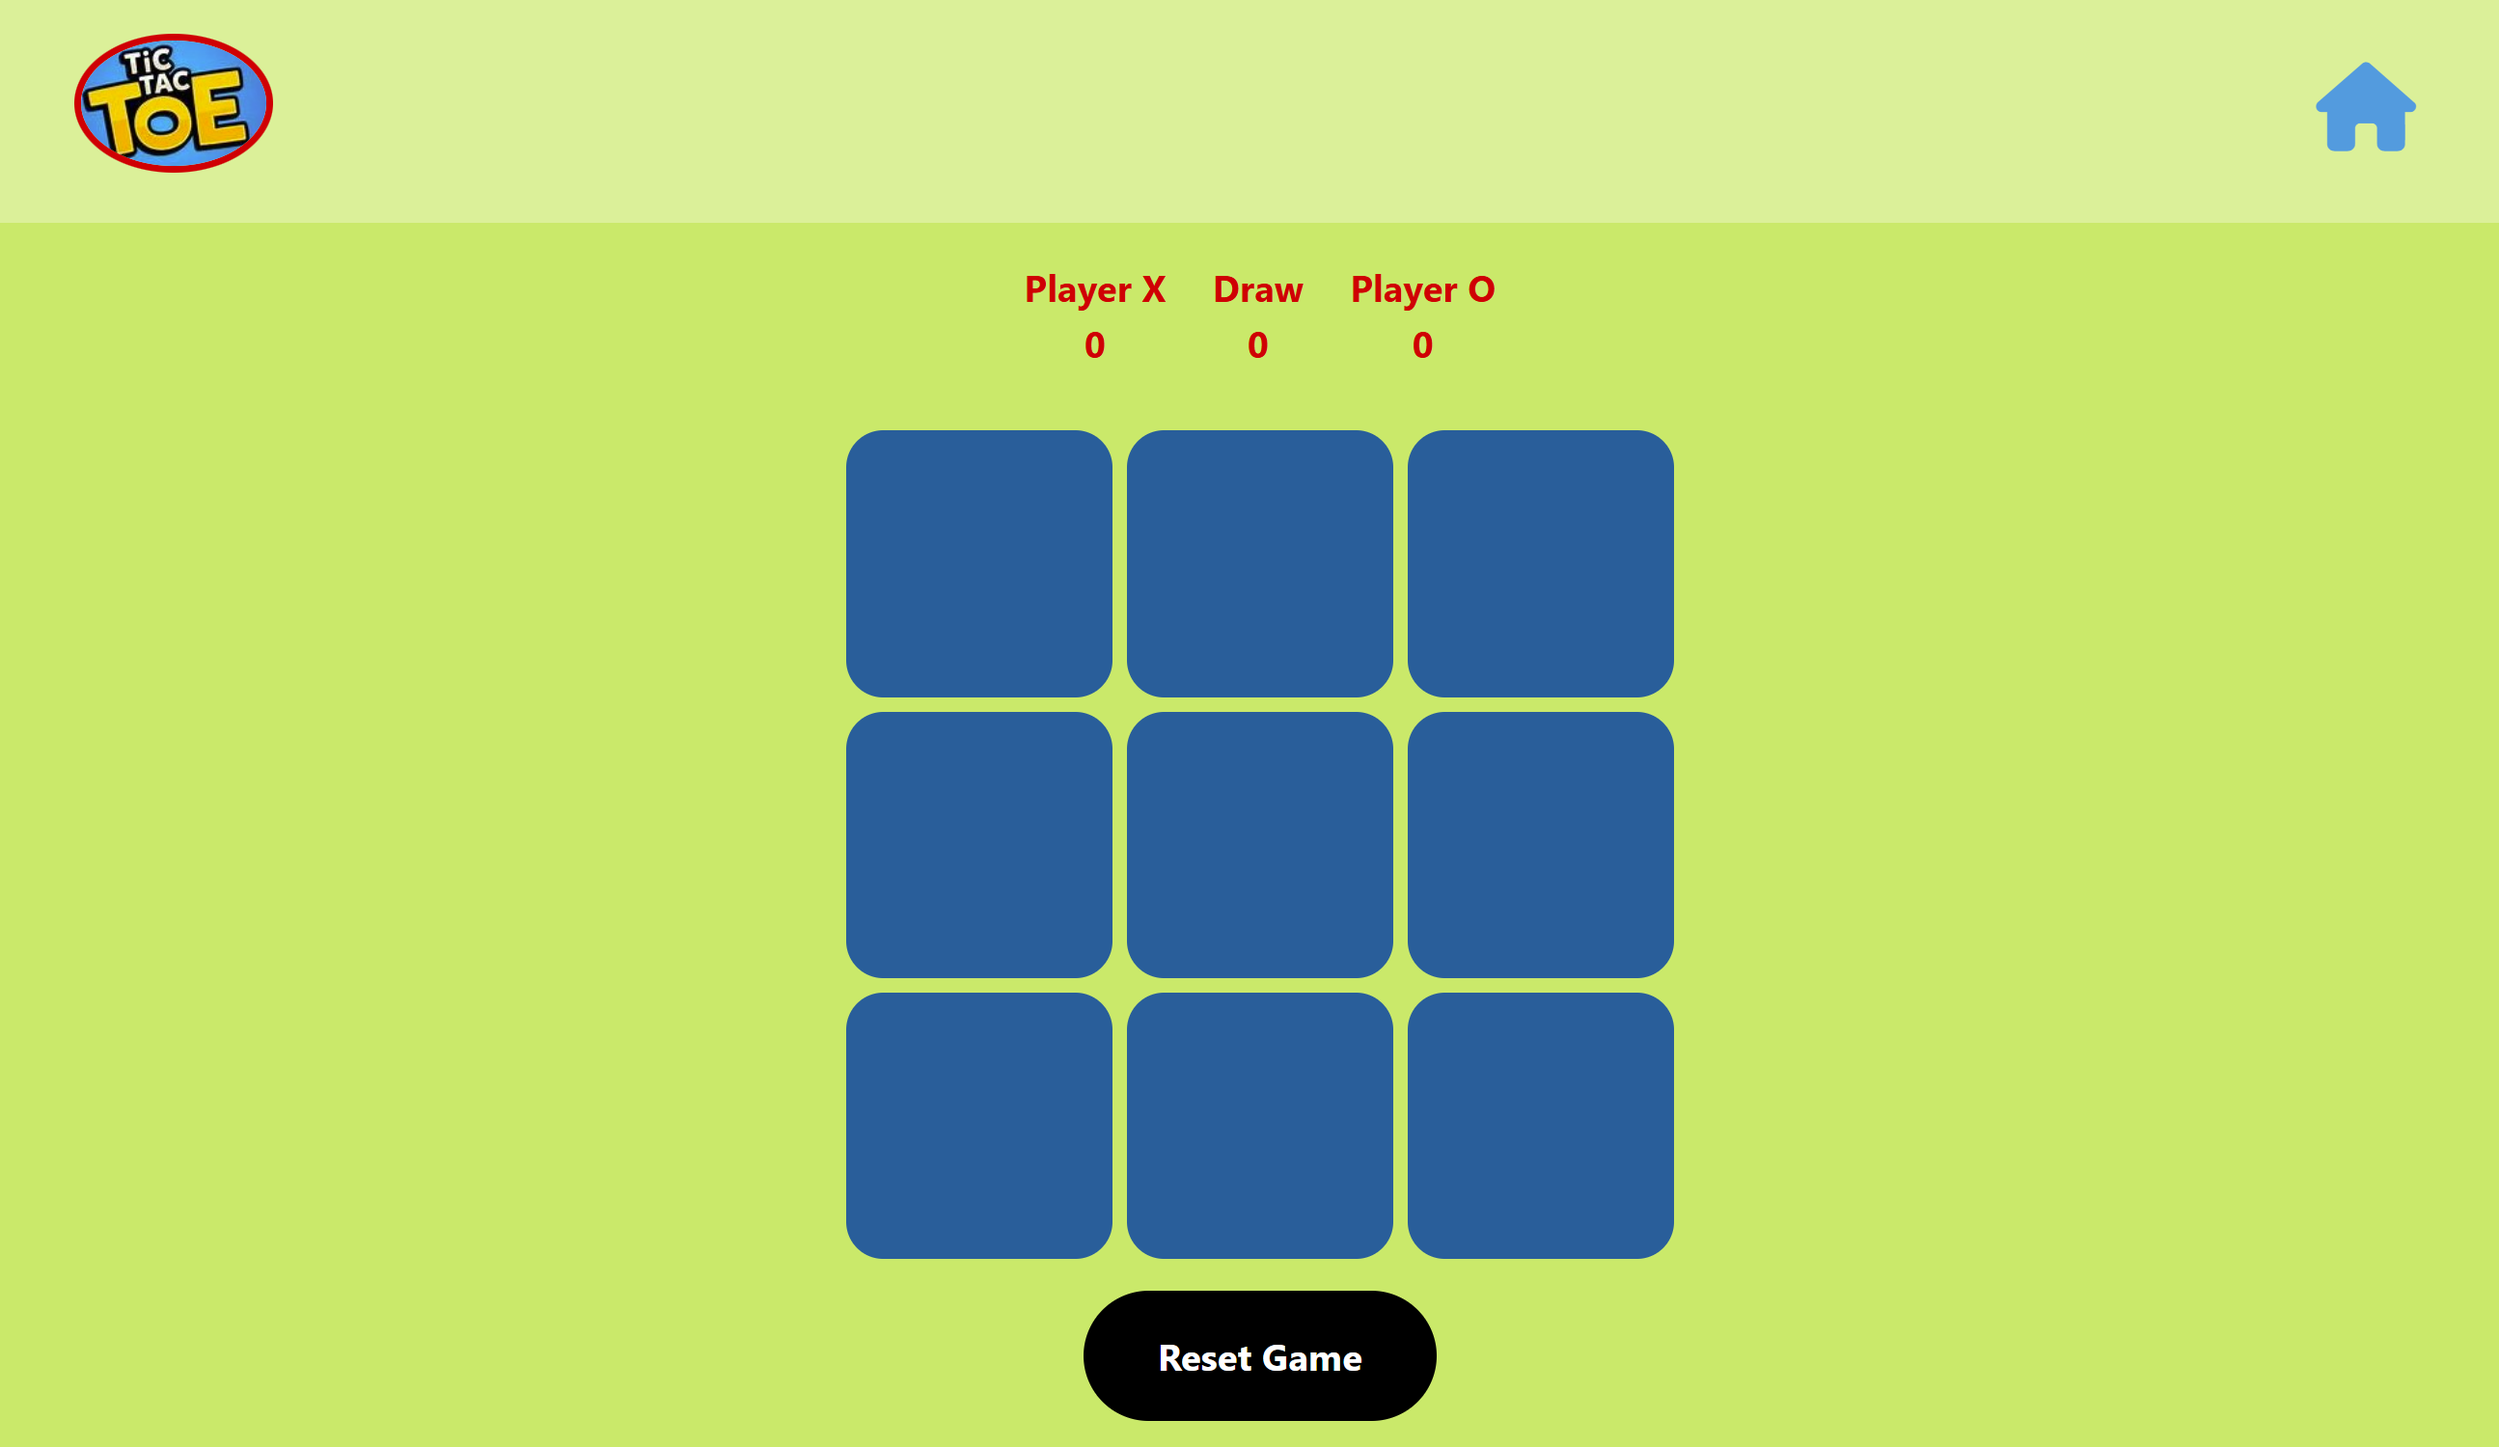
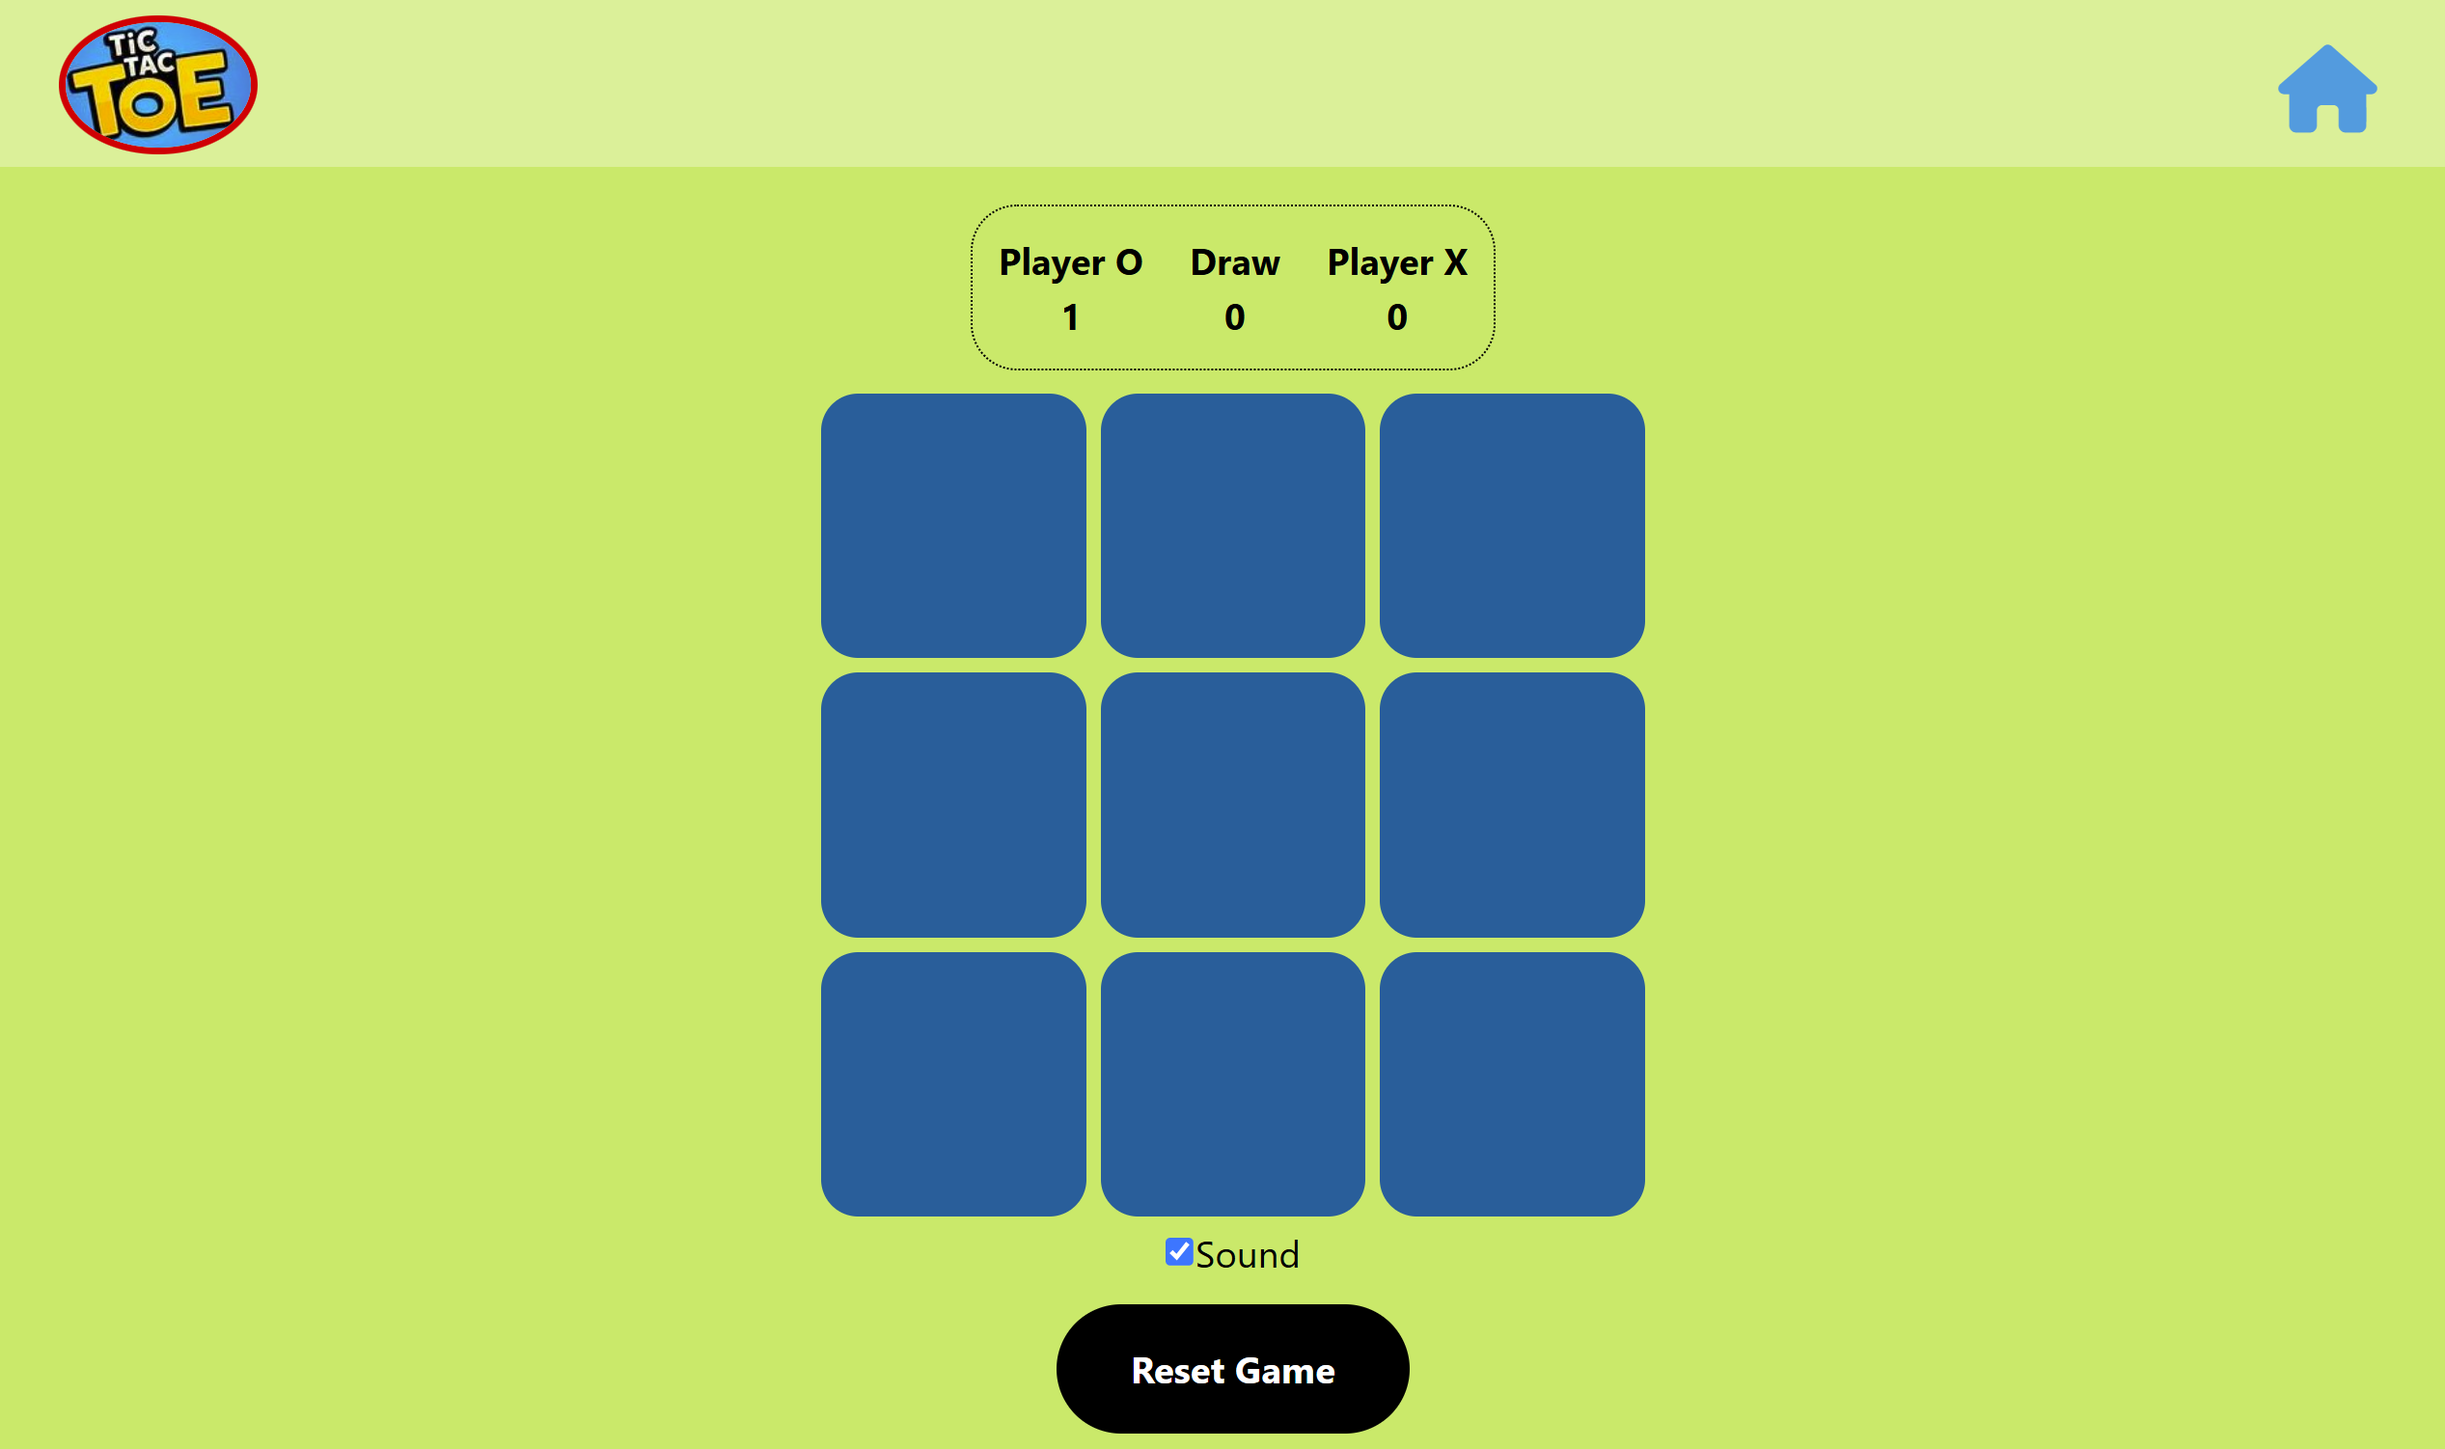
update teh game board screenshot and few details in readme file

diff --git a/game.html b/game.html
@@ -82,7 +82,7 @@
             <input type="checkbox" id="sound-toggle">Sound
           </label>
           <audio src="assets/sounds/bubble-sound.mp3" id="move-sound" aria-label="Bubble Pop Sound"></audio>
-          <audio src="assets/sounds/sad-audio.mp3" id="sad-sound" aria-label="Tone for Sad Events "></audio>
+          <!-- <audio src="assets/sounds/sad-audio.mp3" id="sad-sound" aria-label="Tone for Sad Events "></audio> -->
         </div>
 
         <button id="reset-btn" aria-label="Reset Game Button">Reset Game</button>

diff --git a/README.md b/README.md
@@ -1,6 +1,6 @@
 # Tic Tac Toe
 
-Tic Tac Toe is a Javascript game built to allow users to play offline(two players) for fun. It was designed to be simple and entertaining for two players.
+Tic Tac Toe is a Javascript game built to allow users to play (two players) for fun. It was designed to be simple and entertaining for two players.
 
 ![Mock Up](/docs/readme-images/mockup.png)
 
@@ -30,23 +30,28 @@ Tic Tac Toe is a Javascript game built to allow users to play offline(two player
    * This will allow the user to start the game after they have read the instructions to play.
 
 ![Game Start Button](/docs/readme-images/start-game.png)
+
 * Game Page
 
 ![Game Page](/docs/readme-images/gamepage-screenshot.png)
 * Navbar
-   * Contains link to the Instruction page and will be responsive on all devices.
+   * Contains tic tac toe logo on the left side of the page.
+   * On the right side, contains link to the Instruction page and will be responsive on all devices.
 
 ![Navbar](/docs/readme-images/nav-screenshot.png)
 
 
 * Scoreboard
-   * Above the game board, scoreboard will be displayed to show the score/draw. It will be hidden and pop up once the player gets three in a row or draw.
-   * Contains "New Game" button for the user to continue the game.
+   * Above the game board, scoreboard will be displayed to show the score/draw. It will be updated once the player gets three in a row or a draw.
+   
+   
+   
 
 ![Scoreboard](/docs/readme-images/scoreboard-screenshot.png)
 * Game Board
    * A nine boxes will be blank when the page is loaded.
    * User will be able to click on them to play the game.
+   * A "Sound" can be turned on/off while playing the game.
 
 ![Gameboard](/docs/readme-images/gameboard-screenshot.png)
 * Reset Game Button
@@ -59,10 +64,12 @@ Tic Tac Toe is a Javascript game built to allow users to play offline(two player
 ![New Game](/docs/readme-images/newgame-screenshot.png)
 
 ## The Game
- * The game starts with blank boxes, and always player X begins the game.
- * Next is player O's turn.
+ * The game starts with blank boxes, and always player O begins the game.
+ * Next is player X's turn.
  * Once the boxes are clicked, can not be changed back.
  * When someone gets three in a row, the board will be locked until "Reset Game" or "New Game" is clicked.
+ * When all 9 squares are filled and neither player has three in a row, the game is a draw.
+ * Messages indicating a win or a draw will appear via an "Alert".
 
  ### Winning Conditions
 In this game with nine boxes, there are eight winning conditions.
@@ -76,12 +83,16 @@ In this game with nine boxes, there are eight winning conditions.
 * [ 6, 7, 8 ]
 
 ### Example of three scenarios
-* When player X wins the game.
 
-![Player X is winner](/docs/readme-images/winnerX-screenshot.png)
+
 * When player O wins the game.
 
 ![Player O wins is winner](/docs/readme-images/winnerO-screenshot.png)
+
+* When player X wins the game.
+
+![Player X is winner](/docs/readme-images/winnerX-screenshot.png)
+
 * When its a Draw.
 
 ![It's a draw](/docs/readme-images/draw-screenshot.png)
@@ -123,6 +134,7 @@ In this game with nine boxes, there are eight winning conditions.
   - Wireframes were craeted using balsamiq from https://balsamiq.com/wireframes/desktop/#
 - Font Awesome
   - Icon obtained from https://fontawesome.com/ was used for Home icon on Game page header.
+
   
 
 ## Testing
@@ -148,18 +160,19 @@ Website was also opened on the following devices and no responsive issues were s
 - iphone SE
 - pixel 7
 - Galaxy Z Fold 5
+- Surface pro 7
 
 
 
 **Game Board**
 
-Testing was done to ensure the correct messages were displayed at the appropriate time by playing the game. The following messages are displayed:
+Testing was done to ensure the correct messages were displayed at the appropriate time by playing the game. The following messages are displayed(alert):
 
 * Congratulations, Winner is O.
 * Congratulations, Winner is X.
 * It's a draw.
 
-All messages were displayed as expected.
+All messages were displayed(alert) as expected.
 
 <!-- **Validator Testing**
 
